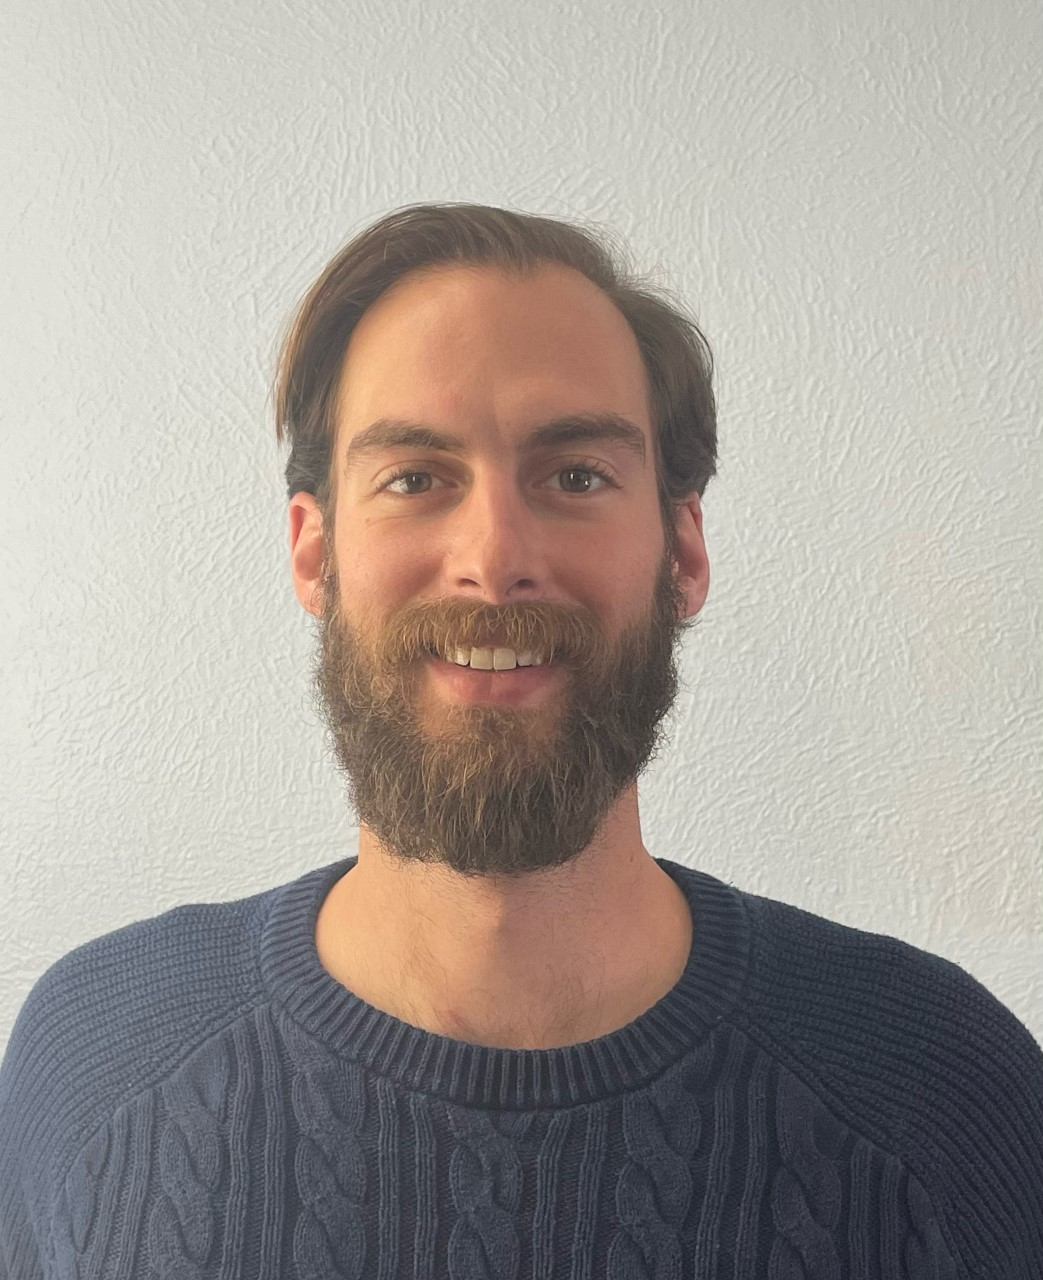
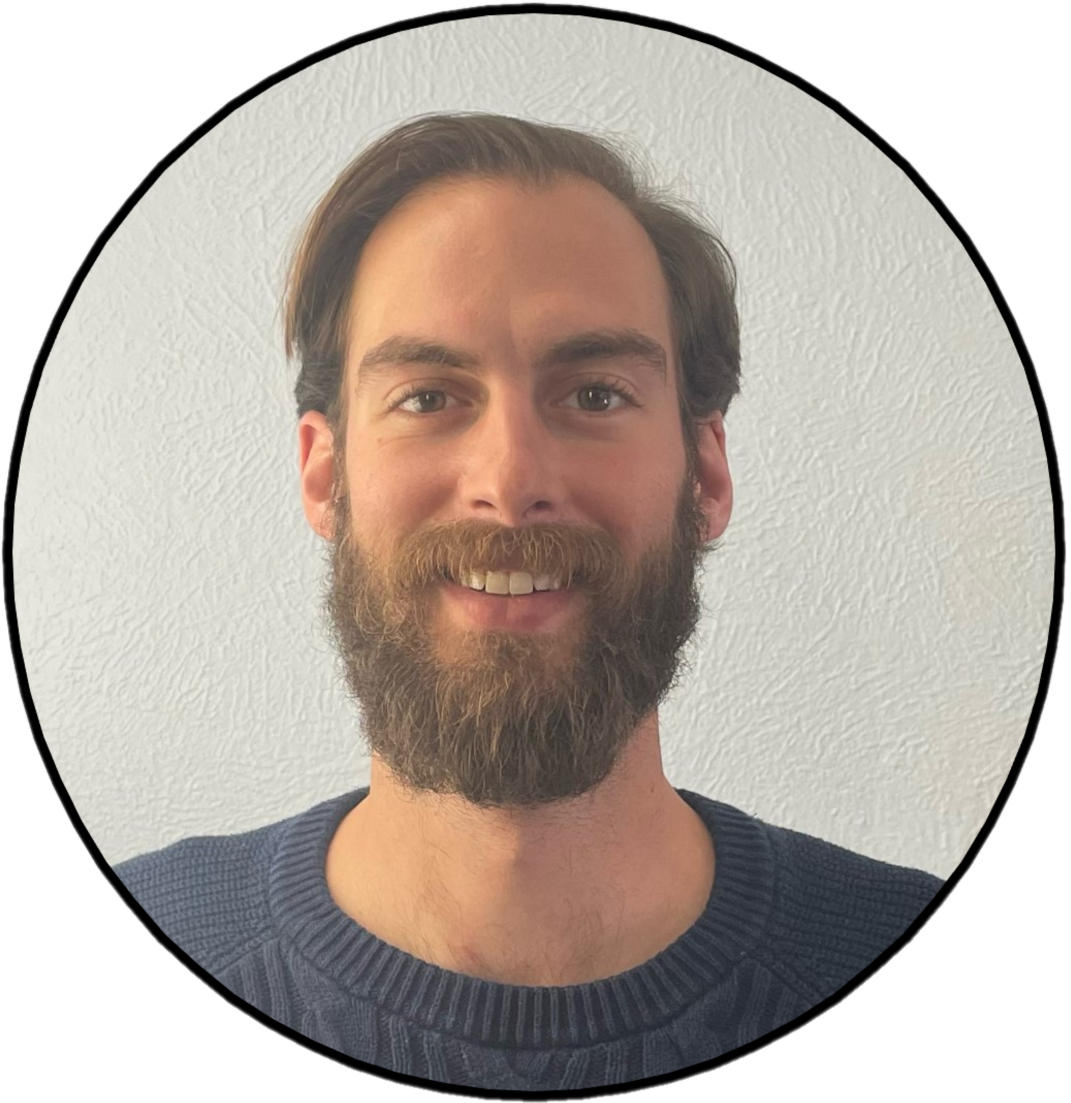
s

diff --git a/components/main-bizcard.js b/components/main-bizcard.js
@@ -31,7 +31,7 @@ return (
         <Image src="/icon-gear-clear.png" layout='fill' alt="gear" priority={true} objectFit='contain'></Image>
       </div>
       <div className={styles['bc-photo-img']}>
-        <Image src="/selfie-circle.png" layout='fill' alt="selfie" priority={true} objectFit='contain'></Image>
+        <Image src="/selfie-glasses.png" layout='fill' alt="selfie" priority={true} objectFit='contain'></Image>
       </div>
     </div>
     
